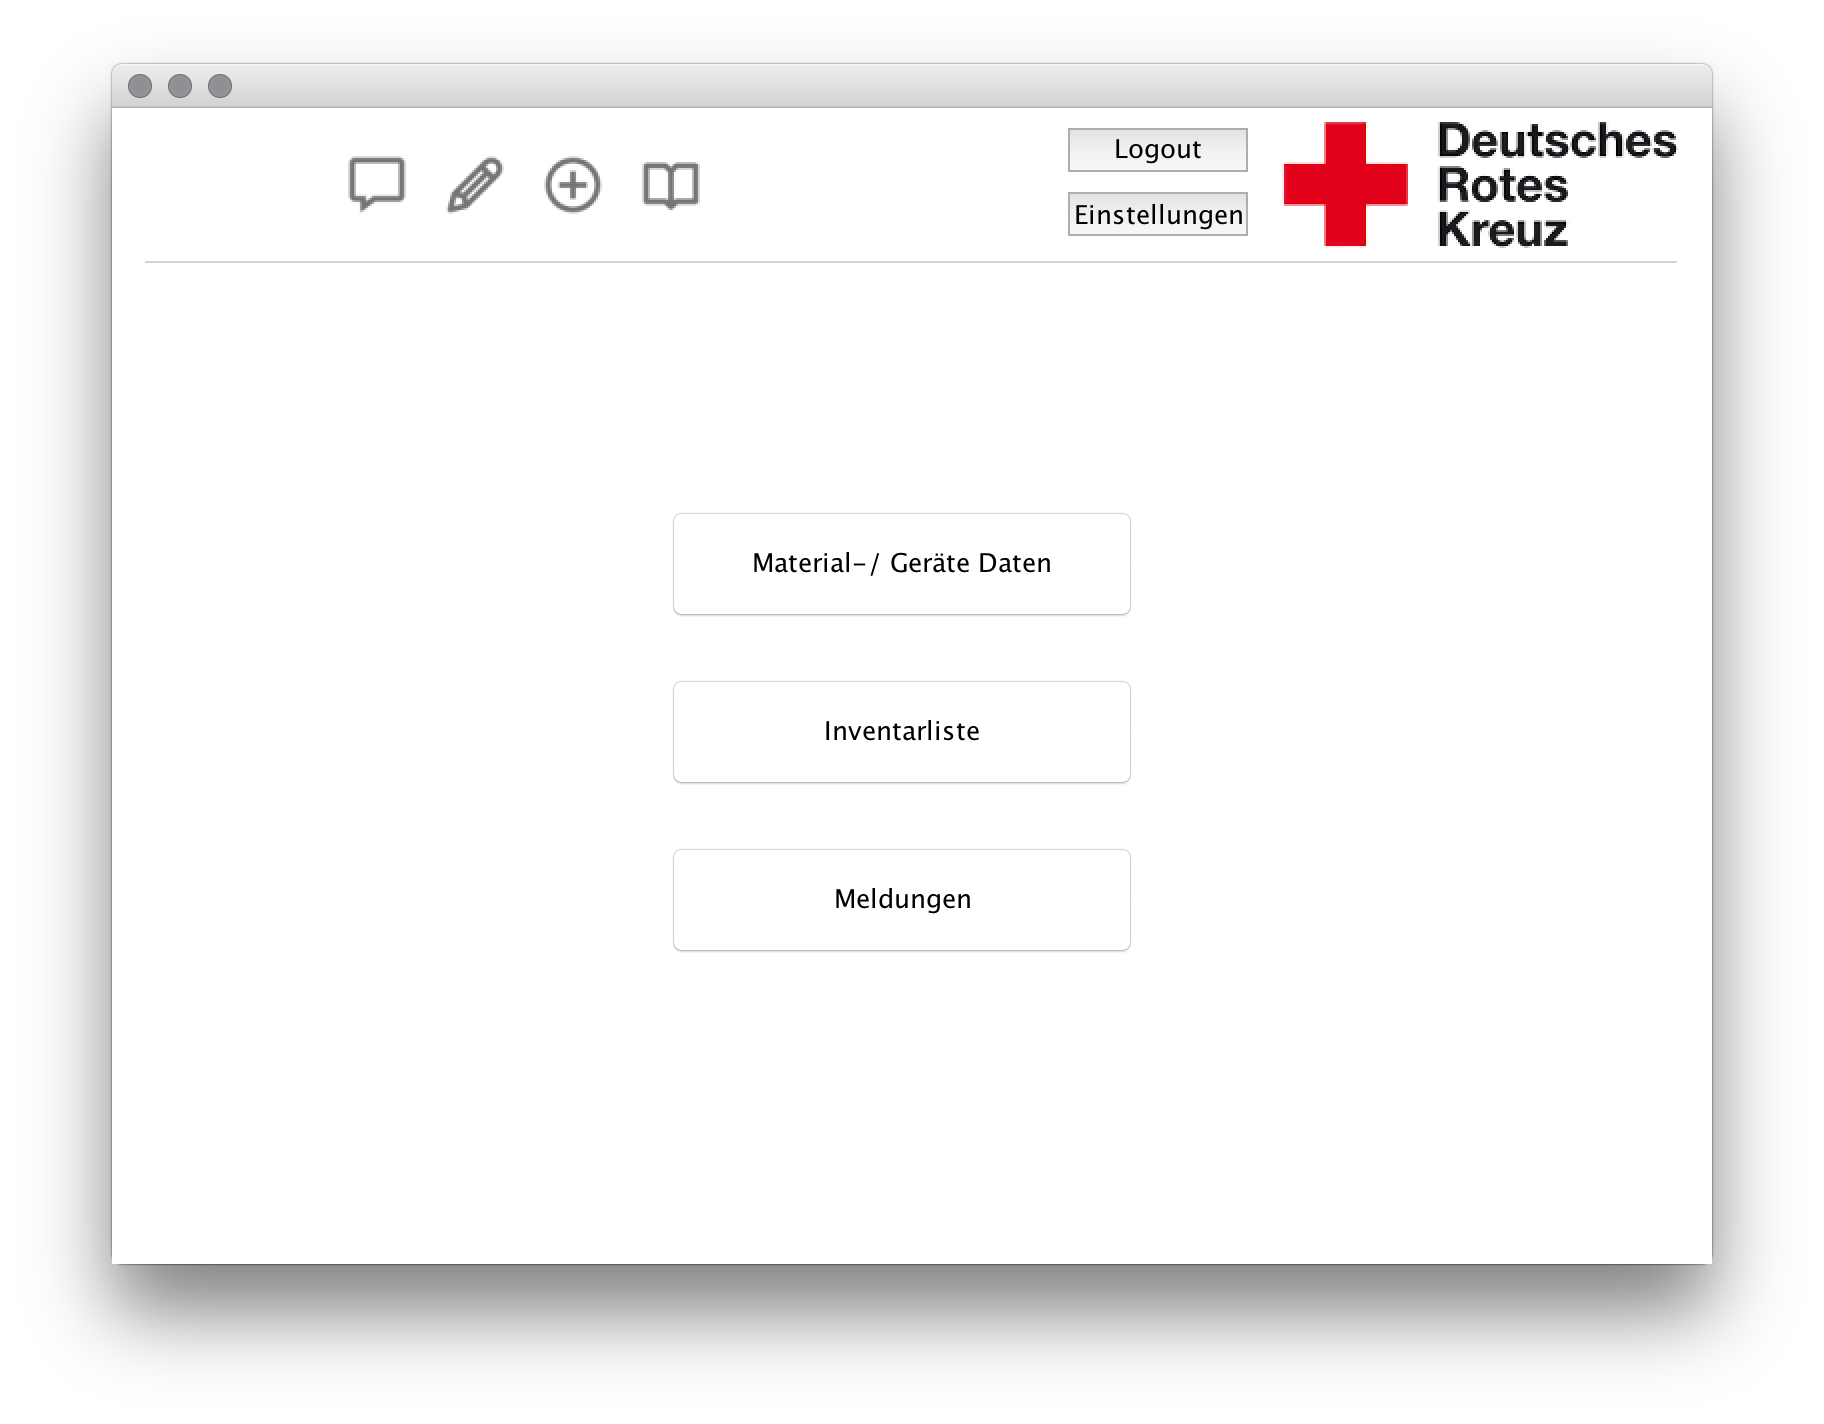
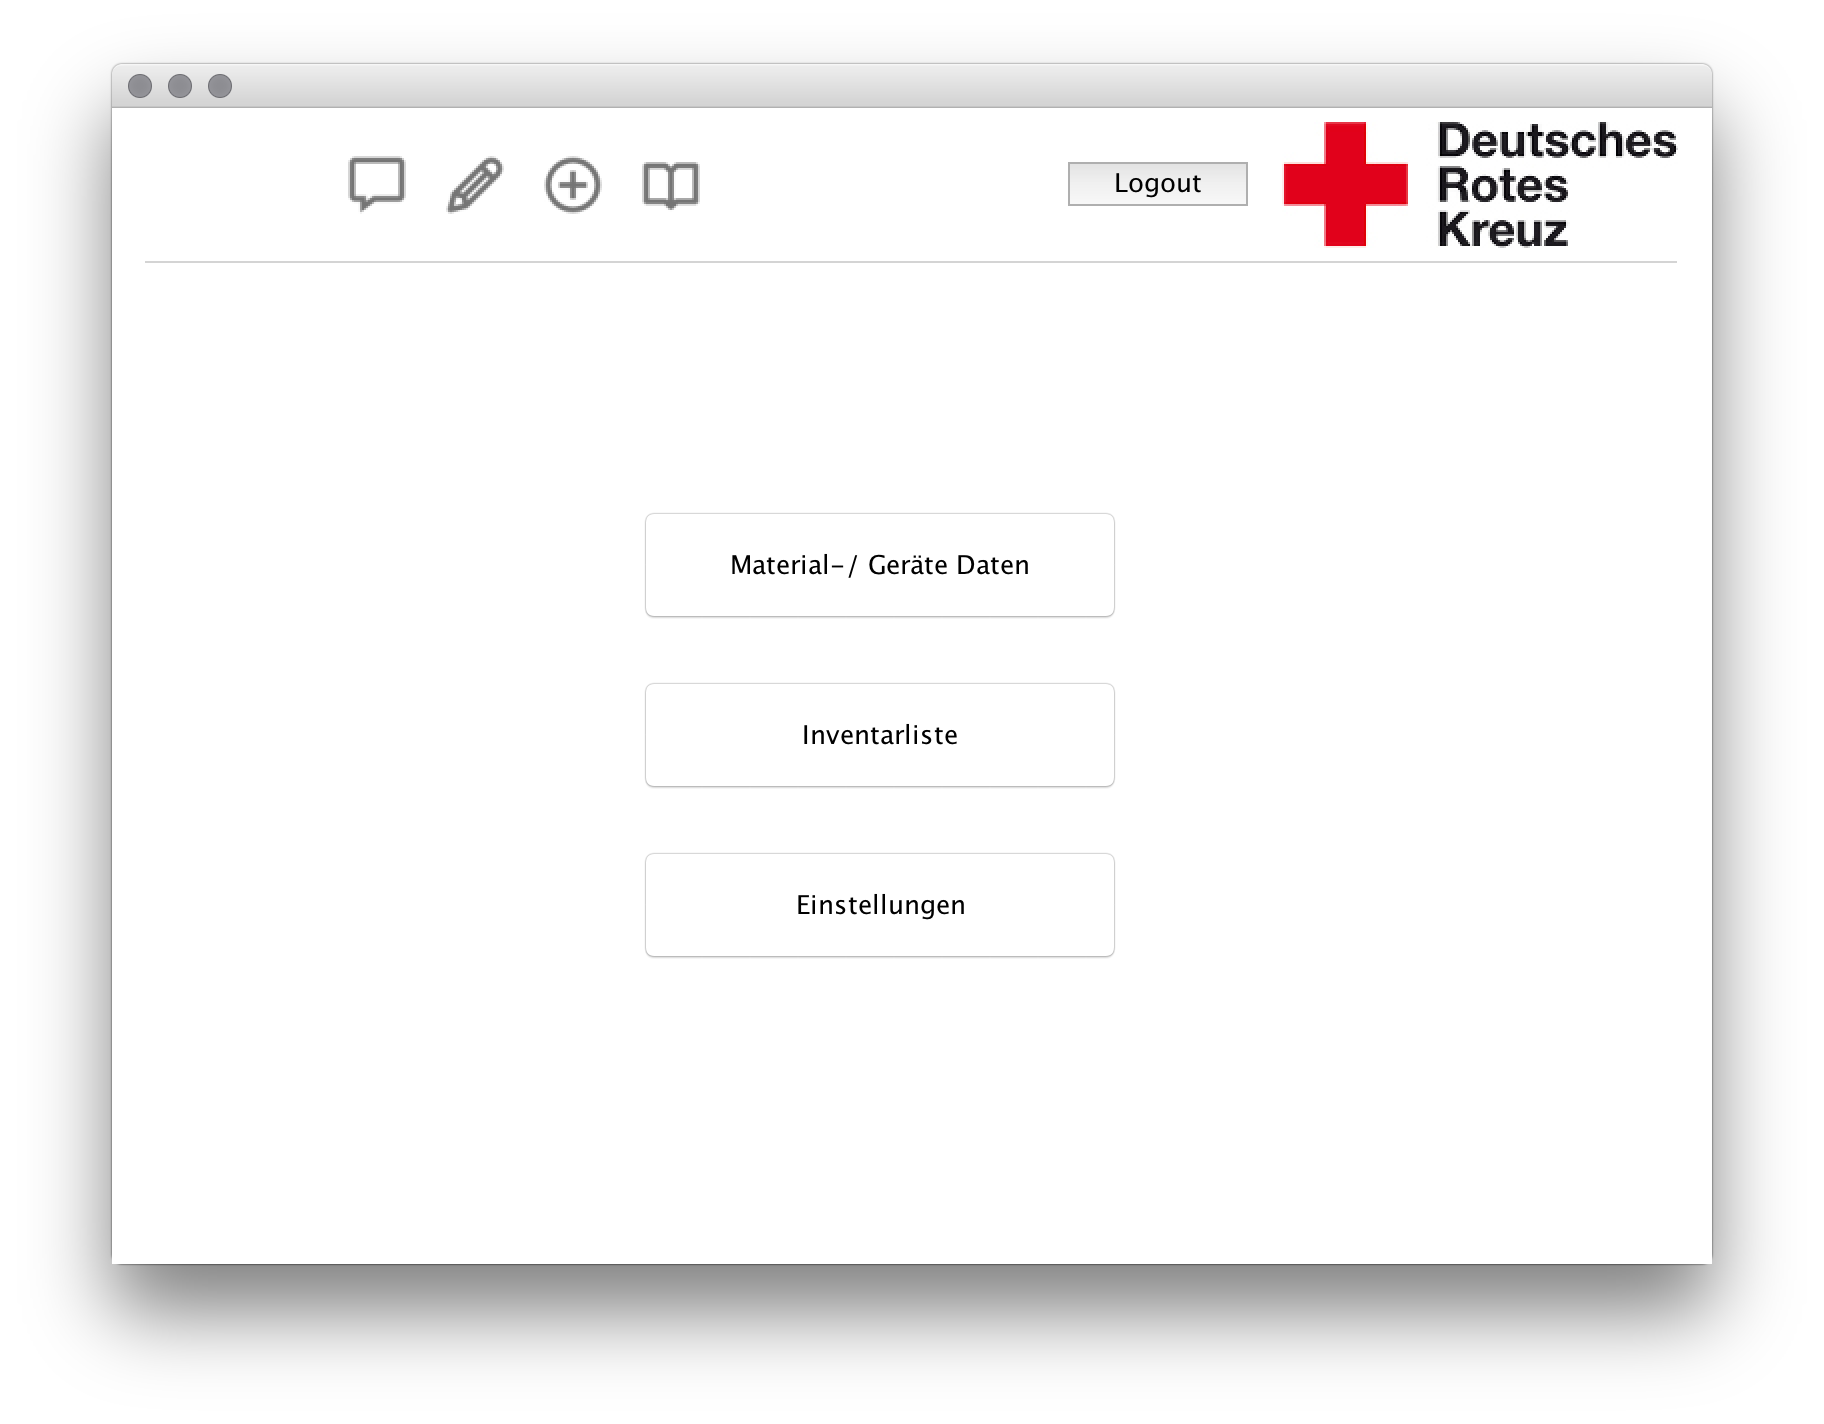
Replaced MessageButton with SettingsButton

diff --git a/eclipse/src/presenter/MenuPresenter.java b/eclipse/src/presenter/MenuPresenter.java
@@ -8,15 +8,13 @@ import java.awt.event.ActionEvent;
 
 
 public class MenuPresenter extends Presenter {
-	private JButton btnMaterialGerteDaten = new JButton("Material-/ Geräte Daten");
-	private JButton btnInventarliste = new JButton("Inventarliste");
-	private JButton btnMeldungen = new JButton("Meldungen");
+	private JButton materialAndDevicesButton = new JButton("Material-/ Geräte Daten");
+	private JButton inventoryButton = new JButton("Inventarliste");
+	private JButton settingsButton = new JButton("Einstellungen");
 
-	private JButton chat = new JButton("");
+	private JButton messages = new JButton("");
 	private JButton edit = new JButton("");
 	private JButton plus = new JButton("");
-
-	private JButton settingsButton = new JButton("Einstellungen");
 
 	/**
 	 * Create the application.
@@ -48,37 +46,33 @@ public class MenuPresenter extends Presenter {
 		this.logo.addActionListener(this);
 
 		this.btnLogout = new JButton("Logout");
-		this.btnLogout.setBounds(logoutX, smallSpacing, logoutWidth, logoutHeight);
+		this.btnLogout.setBounds(logoutX, (topLayoutCenter - logoutHeight / 2), logoutWidth, logoutHeight);
 		this.frame.getContentPane().add(this.btnLogout);
 		this.btnLogout.addActionListener(this);
 
 		this.separator = new JSeparator();
-		this.separator.setBounds(leftPadding, topPadding+logoHeight+1, (width - leftPadding - rightPadding), logoutHeight);
+		this.separator.setBounds(leftPadding, topPadding+logoHeight+1, (width - leftPadding - rightPadding), smallSpacing);
 		this.frame.getContentPane().add(this.separator);
 
-		/* Local Class Layout */
-		this.settingsButton.setBounds(logoutX, smallSpacing+logoutHeight+smallSpacing, logoutWidth, logoutHeight);
+		/* Use Local Class Attributes */
+		this.materialAndDevicesButton.setBounds(menuButtonX, firstButtonPlacing, menuButtonWidth, menuButtonHeight);
+		this.materialAndDevicesButton.addActionListener(this);
+		this.frame.getContentPane().add(materialAndDevicesButton);
+		
+		this.inventoryButton.setBounds(menuButtonX, secondButtonPlacing, menuButtonWidth, menuButtonHeight);
+		this.inventoryButton.addActionListener(this);
+		this.frame.getContentPane().add(this.inventoryButton);
+
+		this.settingsButton.setBounds(menuButtonX, thirdButtonPlacing, menuButtonWidth, menuButtonHeight);
 		this.settingsButton.addActionListener(this);
 		this.frame.getContentPane().add(this.settingsButton);
 
-		this.btnMaterialGerteDaten.setBounds(menuButtonX, firstButtonPlacing, menuButtonWidth, menuButtonHeight);
-		this.btnMaterialGerteDaten.addActionListener(this);
-		this.frame.getContentPane().add(btnMaterialGerteDaten);
-		
-		this.btnInventarliste.setBounds(menuButtonX, secondButtonPlacing, menuButtonWidth, menuButtonHeight);
-		this.btnInventarliste.addActionListener(this);
-		this.frame.getContentPane().add(this.btnInventarliste);
-
-		this.btnMeldungen.setBounds(menuButtonX, thirdButtonPlacing, menuButtonWidth, menuButtonHeight);
-		this.btnMeldungen.addActionListener(this);
-		this.frame.getContentPane().add(this.btnMeldungen);
-
 		Image chatImage = new ImageIcon (this.getClass().getResource("/img/chat-button.jpg")).getImage();
 		Image chatImageScaled = chatImage.getScaledInstance(iconButtonWidth, iconButtonHeight,  java.awt.Image.SCALE_SMOOTH );
-		this.chat.setIcon (new ImageIcon (chatImageScaled));
-		this.chat.setBounds(iconButtonBarX, (topLayoutCenter - iconButtonHeight / 2), iconButtonWidth, iconButtonHeight);
-		this.chat.addActionListener(this);
-		this.frame.getContentPane().add(this.chat);
+		this.messages.setIcon (new ImageIcon (chatImageScaled));
+		this.messages.setBounds(iconButtonBarX, (topLayoutCenter - iconButtonHeight / 2), iconButtonWidth, iconButtonHeight);
+		this.messages.addActionListener(this);
+		this.frame.getContentPane().add(this.messages);
 
 		Image editImage = new ImageIcon (this.getClass().getResource("/img/edit-button.jpg")).getImage();
 		Image editImageScaled = editImage.getScaledInstance(iconButtonWidth, iconButtonHeight,  java.awt.Image.SCALE_SMOOTH );
@@ -107,20 +101,18 @@ public class MenuPresenter extends Presenter {
 	@Override
 	public void actionPerformed(ActionEvent e) {
 		super.actionPerformed(e);
-		if (e.getSource() == this.btnMaterialGerteDaten) {
+		if (e.getSource() == this.materialAndDevicesButton) {
 			DataPresenter dataPresenter = new DataPresenter(this);
 			dataPresenter.newScreen();
-		} else if (e.getSource() == this.btnInventarliste) {
+		} else if (e.getSource() == this.inventoryButton) {
 			InventoryPresenter inventoryPresenter = new InventoryPresenter(this);
 			inventoryPresenter.newScreen();
-		} else if (e.getSource() == this.btnMeldungen) {
-			MessagePresenter messagePresenter = new MessagePresenter(this);
-			messagePresenter.newScreen();
 		} else if (e.getSource() == this.settingsButton) {
 			SettingsPresenter settingsPresenter = new SettingsPresenter(this);
 			settingsPresenter.newScreen();
-		} else if (e.getSource() == this.chat) {
-
+		} else if (e.getSource() == this.messages) {
+			MessagePresenter messagePresenter = new MessagePresenter(this);
+			messagePresenter.newScreen();
 		} else if (e.getSource() == this.edit) {
 
 		} else if (e.getSource() == this.plus) {

diff --git a/eclipse/src/presenter/Presenter.java b/eclipse/src/presenter/Presenter.java
@@ -180,6 +180,6 @@ public abstract class Presenter implements ActionListener {
 	public int firstRowPlacing = firstButtonPlacing;
 	public int secondRowPlacing = firstRowPlacing + setupLabelHeight + spacing;
 	public int thirdRowPlacing = secondRowPlacing + setupLabelHeight + spacing;
-
+	/* *************** */
 }
 
